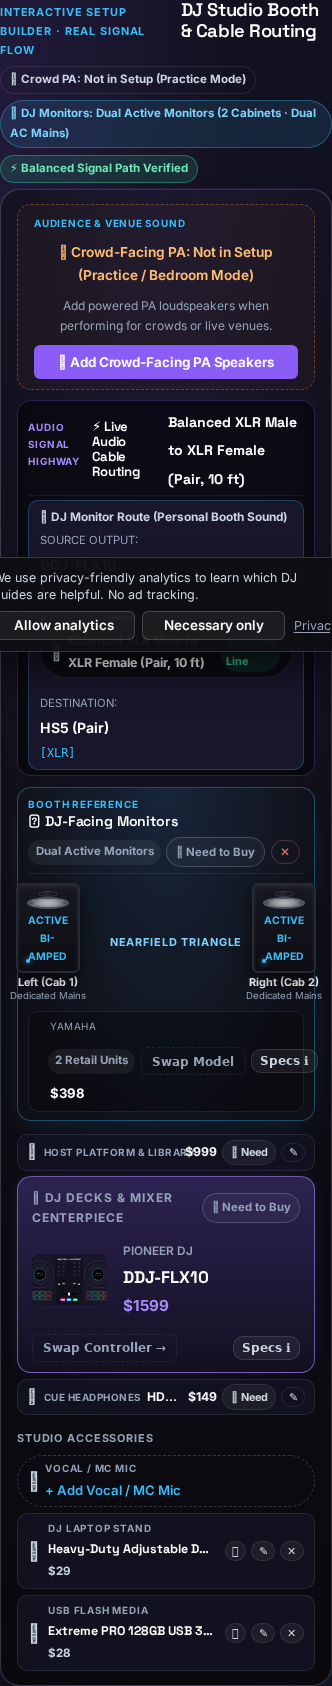
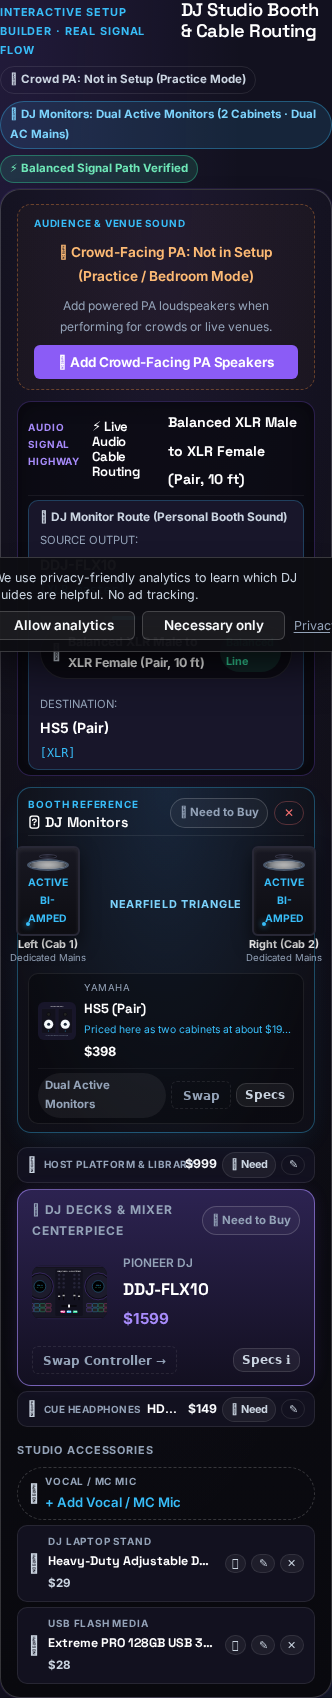
feat(rig-architect): compact masthead and optimize workstation geometry above fold
- Compact masthead typography and margins to elevate booth stage to Y=323px at 1440x900
- Restructure monitor zone header and product card for clean single-tier alignment
- Use responsive auto-fit grid for audio cable routes to conserve vertical space

diff --git a/assets/rig-builder.js b/assets/rig-builder.js
@@ -1567,11 +1567,9 @@
         <div class="zone-header">
           <div class="zone-header-info">
             <span class="zone-role-tag">Booth Reference</span>
-            <h4 class="zone-role-title">🔊 DJ-Facing Monitors</h4>
-            <span class="zone-role-sub">Aimed at performer ears for zero-latency monitoring</span>
+            <h4 class="zone-role-title">🔊 DJ Monitors</h4>
           </div>
           <div class="zone-header-actions">
-            <span class="booth-unit-badge">${unitBadge}</span>
             <button type="button" class="btn-own-toggle ${isOwned ? 'is-owned btn-own-toggle--owned' : 'btn-own-toggle--need'} rs-own-toggle" data-action="toggle-slot-owned" data-slot-id="${monitorSlot.slotId}">
               ${isOwned ? '✓ I Own This' : '🛒 Need to Buy'}
             </button>
@@ -1596,16 +1594,16 @@
             </div>
           </div>
           <div class="zone-product-actions">
+            <span class="booth-unit-badge">${unitBadge}</span>
             ${item.speaker_units === 1 ? `
               <div class="booth-qty-inline">
-                <label>Boxes:</label>
                 <button type="button" class="btn-qty" data-action="adjust-qty" data-slot-id="${monitorSlot.slotId}" data-delta="-1" aria-label="Decrease quantity" ${qty <= 1 ? 'disabled' : ''}>−</button>
                 <span class="qty-num">${qty}</span>
                 <button type="button" class="btn-qty" data-action="adjust-qty" data-slot-id="${monitorSlot.slotId}" data-delta="1" aria-label="Increase quantity" ${qty >= 4 ? 'disabled' : ''}>+</button>
               </div>
-            ` : (isMasterSlave ? '<span class="booth-unit-badge">1 Retail Box</span>' : '<span class="booth-unit-badge">2 Retail Units</span>')}
-            <button type="button" class="booth-swap-btn" data-action="pick" data-slot-id="${monitorSlot.slotId}" data-category="speakers" data-speaker-role="dj_monitor">Swap Model</button>
-            <button type="button" class="booth-spec-btn" data-action="inspect-item" data-item-id="${item.id}" title="View detailed specs">Specs ℹ</button>
+            ` : ''}
+            <button type="button" class="booth-swap-btn" data-action="pick" data-slot-id="${monitorSlot.slotId}" data-category="speakers" data-speaker-role="dj_monitor">Swap</button>
+            <button type="button" class="booth-spec-btn" data-action="inspect-item" data-item-id="${item.id}" title="View detailed specs">Specs</button>
           </div>
         </div>
       </div>

diff --git a/assets/style.css b/assets/style.css
@@ -5549,27 +5549,26 @@ tr.rs-item { display: table-row !important; }
 /* Product Card Inside Zone */
 .zone-product-card {
   display: flex;
-  align-items: center;
-  justify-content: space-between;
-  gap: 0.5rem;
-  background: rgba(0, 0, 0, .25);
+  flex-direction: column;
+  gap: 0.35rem;
+  background: rgba(0, 0, 0, .28);
   border: 1px solid rgba(255, 255, 255, .08);
   border-radius: var(--r-sm);
-  padding: .4rem .65rem;
+  padding: .35rem .55rem;
 }
 
 .zone-product-body {
   display: flex;
   align-items: center;
-  gap: .65rem;
+  gap: .5rem;
   cursor: pointer;
-  flex: 1 1 auto;
+  width: 100%;
   min-width: 0;
 }
 
 .zone-product-thumb {
-  width: 44px;
-  height: 44px;
+  width: 38px;
+  height: 38px;
   border-radius: var(--r-xs);
   object-fit: contain;
   background: var(--panel-2);
@@ -5579,19 +5578,20 @@ tr.rs-item { display: table-row !important; }
 .zone-product-info {
   display: flex;
   flex-direction: column;
-  gap: .1rem;
+  gap: .08rem;
   min-width: 0;
+  flex: 1;
 }
 
 .zone-product-brand {
-  font-size: .62rem;
+  font-size: .6rem;
   color: var(--muted);
   text-transform: uppercase;
   letter-spacing: .05em;
 }
 
 .zone-product-name {
-  font-size: .84rem;
+  font-size: .82rem;
   font-family: var(--display);
   color: #fff;
   white-space: nowrap;
@@ -5600,7 +5600,7 @@ tr.rs-item { display: table-row !important; }
 }
 
 .zone-product-pack-note {
-  font-size: .68rem;
+  font-size: .65rem;
   color: #38bdf8;
   white-space: nowrap;
   overflow: hidden;
@@ -5608,7 +5608,7 @@ tr.rs-item { display: table-row !important; }
 }
 
 .zone-product-price {
-  font-size: .82rem;
+  font-size: .8rem;
   font-weight: 700;
   color: #fff;
 }
@@ -5616,8 +5616,10 @@ tr.rs-item { display: table-row !important; }
 .zone-product-actions {
   display: flex;
   align-items: center;
-  gap: .35rem;
-  flex-shrink: 0;
+  justify-content: space-between;
+  gap: .3rem;
+  padding-top: .25rem;
+  border-top: 1px solid rgba(255, 255, 255, .05);
 }
 
 .booth-qty-inline {
@@ -5713,9 +5715,9 @@ tr.rs-item { display: table-row !important; }
 }
 
 .cables-routes-grid {
-  display: flex;
-  flex-direction: column;
-  gap: .3rem;
+  display: grid;
+  grid-template-columns: repeat(auto-fit, minmax(min(100%, 340px), 1fr));
+  gap: .4rem;
 }
 
 .cable-route-card {

diff --git a/assets/rig-studio.css b/assets/rig-studio.css
@@ -29,15 +29,15 @@
   position: relative;
   max-width: 1320px;
   margin: 0 auto;
-  padding: 0.45rem var(--gutter) 0.55rem;
+  padding: 0.2rem var(--gutter) 0.25rem;
 }
 .rig-masthead-topbar {
   display: flex;
   flex-wrap: wrap;
   justify-content: space-between;
   align-items: center;
-  gap: 0.5rem 1rem;
-  margin-bottom: 0.2rem;
+  gap: 0.4rem 1rem;
+  margin-bottom: 0.1rem;
 }
 .rig-masthead .crumbs { margin-bottom: 0; }
 .rig-masthead-grid {
@@ -45,17 +45,17 @@
   flex-wrap: wrap;
   justify-content: space-between;
   align-items: center;
-  gap: 0.4rem 1.5rem;
+  gap: 0.25rem 1.5rem;
 }
-.rig-masthead .hero-eyebrow { display: inline-flex; gap: .35rem; align-items: center; font-size: .72rem; }
+.rig-masthead .hero-eyebrow { display: inline-flex; gap: .35rem; align-items: center; font-size: .65rem; }
 .rig-masthead h1 {
-  margin: 0.1rem 0 0.15rem;
+  margin: 0.05rem 0 0.1rem;
   font-family: var(--display);
-  font-size: clamp(1.2rem, 2vw, 1.55rem);
+  font-size: clamp(1.15rem, 1.8vw, 1.35rem);
   line-height: 1.15;
   letter-spacing: -.02em;
   color: #fff;
-  max-width: 38ch;
+  max-width: 45ch;
 }
 .rig-masthead h1 em {
   font-style: normal;
@@ -68,8 +68,8 @@
   margin: 0;
   max-width: 80ch;
   color: var(--text-2);
-  font-size: 0.82rem;
-  line-height: 1.35;
+  font-size: 0.76rem;
+  line-height: 1.25;
 }
 .rig-masthead-facts {
   display: flex;

diff --git a/tests/test_role_based_booth_journeys.js b/tests/test_role_based_booth_journeys.js
@@ -9,7 +9,7 @@ const fs = require("fs");
 const path = require("path");
 
 const CHROME = process.env.CHROME_BIN || "/usr/local/bin/chromium";
-const BASE_URL = "http://127.0.0.1:8080";
+const BASE_URL = process.env.BASE_URL || "http://127.0.0.1:8080";
 const EVIDENCE_DIR = path.join(__dirname, "../evidence");
 
 if (!fs.existsSync(EVIDENCE_DIR)) {
